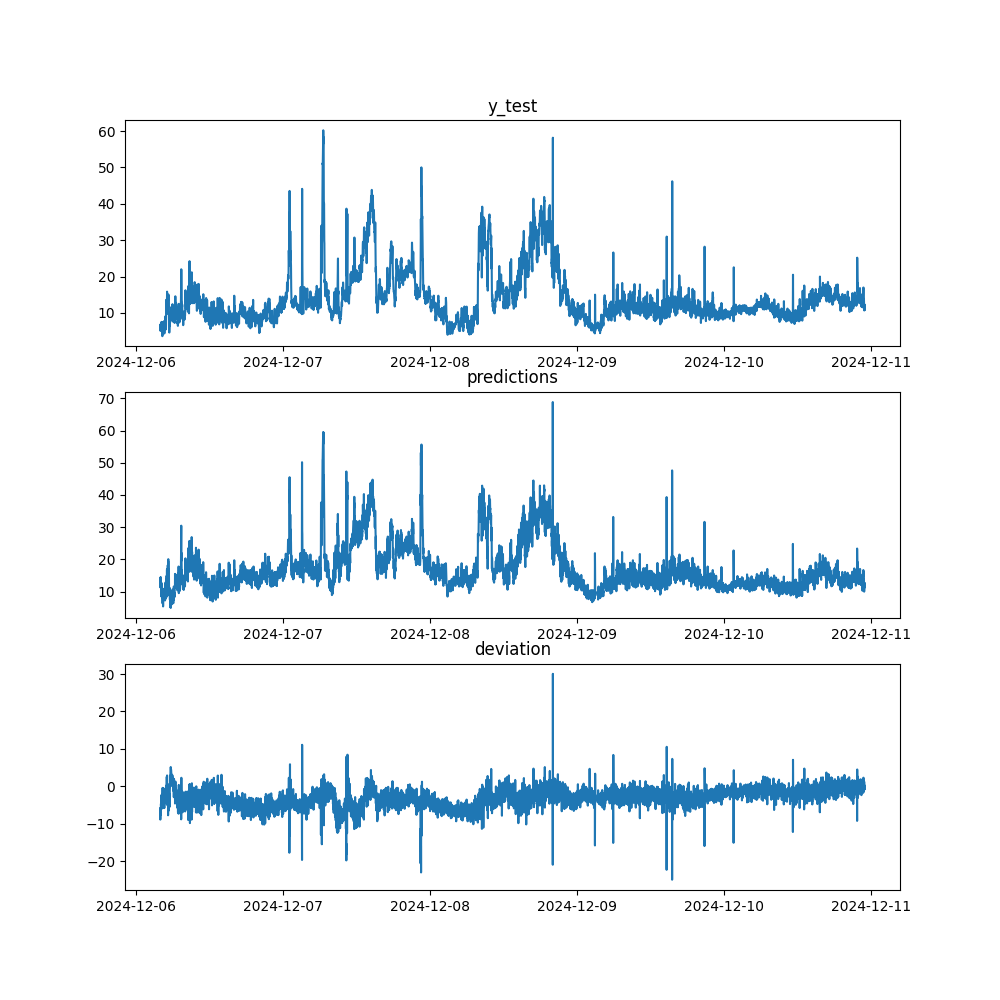
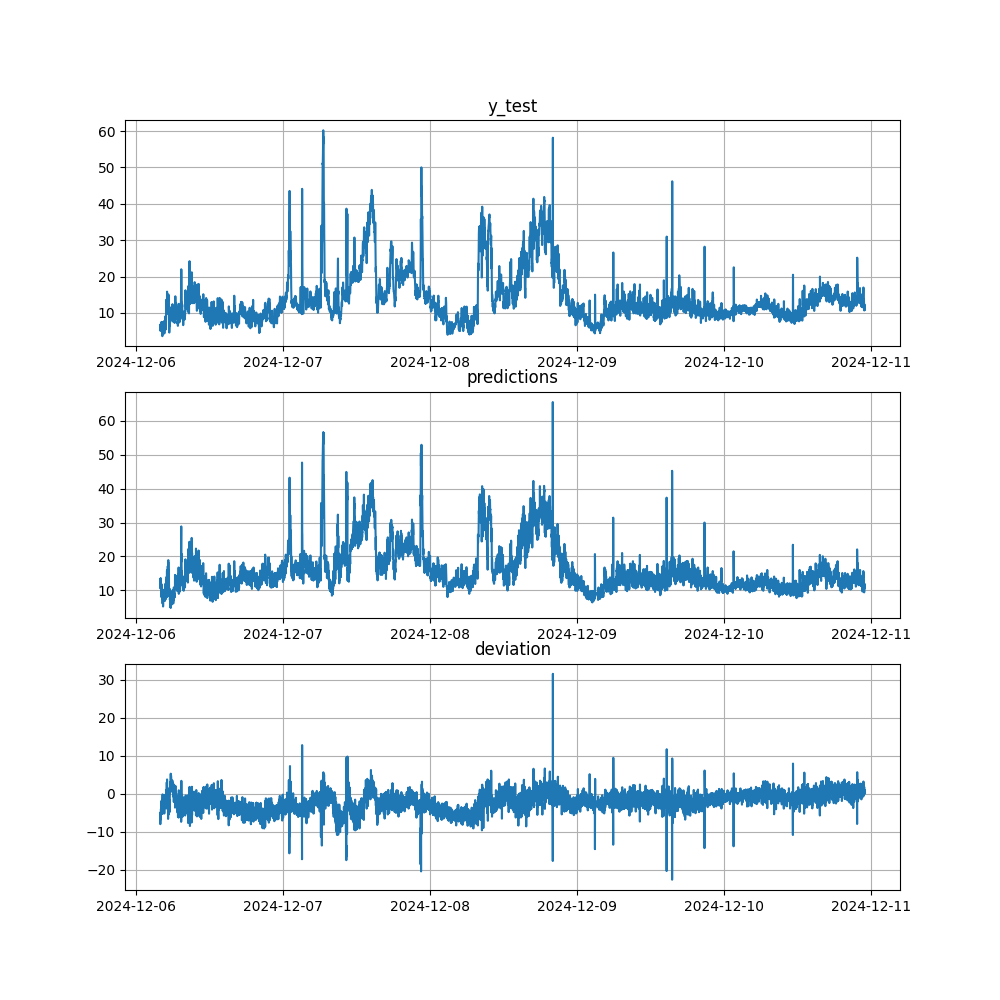
switch to seaborn, set grid

diff --git a/utils.py b/utils.py
@@ -5,6 +5,7 @@ from keras import Model
 import logging
 import yaml
 import matplotlib.pyplot as plt
+import seaborn as sns
 
 
 class SensorData:
@@ -84,7 +85,8 @@ def get_config() -> dict:
 def plot_results(plot_path: str, *args) -> None:
     figure, axes = plt.subplots(nrows=len(args), figsize=(10, 10))
     for index, (values, name) in enumerate(args):
-        axes[index].plot(values)
+        sns.lineplot(x=values.index.tolist(), y=values.values.flatten(), ax=axes[index])
         axes[index].set_title(name)
+        axes[index].grid()
     plt.savefig(plot_path)
     plt.show()
